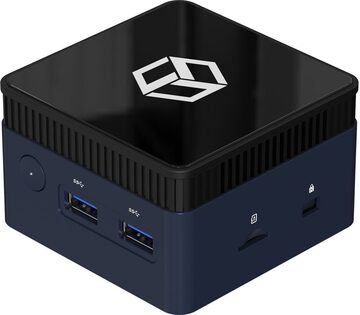
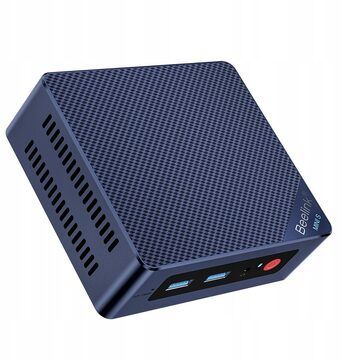
Pokój nauczycielski 16: minikomputer Beelink S12 Pro z 2 × HDMI, panele LYSEKIL nad blatem, ekrany MITTZON przy szafach i między biurkami
Beelink Mini S12 Pro (N100, 16 GB, 500 GB, Windows 11 Pro, 2 × HDMI) obsługuje ekran dotykowy i monitor na korytarzu;
zamiennik ASUS NUC 14 Essential (HDMI + DisplayPort). 2 panele LYSEKIL 119,6 × 55 cm między blatem a szafkami wiszącymi
(szafki od 145 cm). Ekran akustyczny przeniesiony z boku biurka 2 między szafy skrytkowe a biurko 1. Razem 37 831,64 zł.

Claude-Session: https://claude.ai/code/session_01FwNcib9nH5pwcS8mELcYCv

diff --git a/pokoj16-plan.js b/pokoj16-plan.js
@@ -33,7 +33,7 @@ const C = [
   { k: "szafa", z: "storage", name: "JAN NOWAK KAROL Eco Design, szafa skrytkowa zamykana na klucz, 18 skrytek, biały korpus / fronty dąb sonoma", dims: "90 × 40 × 185 cm, 18 skrytek (3 × 6) z zamkiem ryglowanym, klucz Master Key do wszystkich skrytek, otwory wentylacyjne, miejsce na wizytownik, 52 kg", sku: "1867 (EAN 5907367500462)", price: 1299, qty: 3, shop: "Kupmeble.pl", url: "https://kupmeble.pl/produkt/szafa-skrytkowa-zamykana-na-klucz-eco-design-karol-90x40x185-cm-bialy-dab-sonoma", avail: "na magazynie, wysyłka 48 h", status: ["ok", "Na magazynie, gwarancja 10 lat"], note: "Razem 54 skrytki" },
   { k: "scianka", z: "storage", sw: "acoustic", name: "IKEA MITTZON rama z kółkami, ekran akustyczny i tablica suchościeralna, Gunnared beżowy/biały", dims: "85 × 205 cm, podstawa 50 cm; na dole ekran akustyczny 5 cm, na górze dwustronna tablica do pisania i przypinania; pokrycie zdejmowane do prania", sku: "s09536177", price: 999, qty: 2, shop: IKEA, url: ip("mittzon-rama-z-kolk-ekr-akust-tabl-gunnared-bezowy-bialy-s09536177"), avail: "28.11: w sprzedaży, na stanie", status: ["ok", "1 szt. między stołem do druku a lodówką, 1 szt. bez stałego miejsca (do przestawiania)"], alt: [{ name: "MITTZON rama z kółkami i ekranem akustycznym, bez tablicy (s39514683)", price: 699, url: ip("mittzon-rama-z-kolkami-ekran-akust-gunnared-bezowy-bialy-s39514683") }] },
   { k: "biurko", z: "work", name: "IKEA BOLLPOJKE biurko, sosna / biały, 90 × 55 cm", dims: "90 × 55 × 75 cm, blat z litej sosny, biała rama ze skrzyżowanymi nogami, otwarta półka pod blatem, otwór na kable; przy każdym biurku podwójne gniazdo 230 V na ścianie", sku: "005.913.66", price: 449, qty: 2, shop: IKEA, url: ip("bollpojke-biurko-sosna-bialy-00591366"), avail: "28.11: w sprzedaży, na stanie", status: ["ok", "Pod tablicą magnetyczną, 10 cm odstępu na ekran między biurkami"] },
-  { k: "przegroda", z: "work", sw: "acoustic", name: "IKEA MITTZON ekran akustyczny na biurko, Gunnared beżowy, 70 × 72 cm", dims: "70 × 72 × 8 cm, zaciski w zestawie; 1 szt. między biurkami, 1 szt. z boku biurka 2 od strony Xeroxa (ekran wystaje 15 cm przed blat)", sku: "105.282.23", price: 300, qty: 2, shop: IKEA, url: ip("mittzon-ekran-akustyczny-na-biurko-gunnared-bezowy-10528223"), avail: "28.11: w sprzedaży, na stanie", status: ["warn", "Ekran jest do biurek MITTZON: sprawdzić, czy zaciski pasują do blatu BOLLPOJKE"] },
+  { k: "przegroda", z: "work", sw: "acoustic", name: "IKEA MITTZON ekran akustyczny na biurko, Gunnared beżowy, 70 × 72 cm", dims: "70 × 72 × 8 cm, zaciski w zestawie; 1 szt. między szafami skrytkowymi a biurkiem 1, 1 szt. między biurkami (ekran wystaje 15 cm przed blat)", sku: "105.282.23", price: 300, qty: 2, shop: IKEA, url: ip("mittzon-ekran-akustyczny-na-biurko-gunnared-bezowy-10528223"), avail: "28.11: w sprzedaży, na stanie", status: ["warn", "Ekran jest do biurek MITTZON: sprawdzić, czy zaciski pasują do blatu BOLLPOJKE"] },
   { k: "lampa", z: "work", name: "IKEA TERTIAL lampa biurkowa, biały", dims: "ramię ok. 56 cm, klosz i ramię regulowane, zacisk na blat do 6 cm; żarówka E27 sprzedawana osobno (np. SOLHETTA LED 806 lm, 16,99 zł za 2 szt.)", sku: "703.554.55", price: 49.99, qty: 2, shop: IKEA, url: ip("tertial-lampa-biurkowa-bialy-70355455"), avail: "28.11: w sprzedaży, na stanie", status: ["ok", "Po jednej na biurko, kupić też żarówki E27"] },
   { k: "podstawka", z: "work", name: "IKEA STENERIK podstawka pod laptopa", dims: "26 × 24 cm, wys. 4–14 cm; pod laptopem miejsce na klawiaturę, mysz i notatki", sku: "305.640.12", price: 79.99, qty: 2, shop: IKEA, url: ip("stenerik-podstawka-pod-laptopa-30564012"), avail: "28.11: w sprzedaży, na stanie", status: ["ok", "Pod laptopy KPO na biurkach"] },
   { k: "krz_biuro", z: "work", name: "IKEA LÄKTARE krzesło konferencyjne, średnioszary / biały", dims: "55 × 50 × 84 cm, podłokietniki, siedzisko z okleiną brzozową, pokrycie Gunnared do prania, sztaplowane (do 5 szt.), EN 16139", sku: "s49503250", price: 299, qty: 2, shop: IKEA, url: ip("laektare-krzeslo-konferencyjne-srednioszary-bialy-s49503250"), status: ["ok", "Przy biurkach"] },
@@ -54,6 +54,7 @@ const C = [
   { k: "zlew", z: "kitchen", name: "IKEA LÅNGUDDEN zlew wpuszczany, 1 komora, stal nierdzewna", dims: "46 × 46 cm", sku: "s59157391", price: 289, qty: 1, shop: IKEA, url: ip("langudden-zlew-wpuszczany-1-komorowy-stal-nierdz-s59157391"), status: ["ok", "W sprzedaży, na stanie"], noDraw: true, alt: [{ name: "VRESJÖN 54 × 44 cm, stal", price: 1079, url: ip("vresjoen-zlew-wpuszczany-1-komora-stal-nierdz-s99425721") }] },
   { k: "bateria", z: "kitchen", name: "IKEA SALLSJÖN bateria kuchenna z uchwytem z boku, stalowy", dims: "jednouchwytowa", sku: "706.009.04", price: 349, qty: 1, shop: IKEA, url: ip("sallsjoen-bateria-kuchenna-z-uchwytem-z-boku-stalowy-70600904"), status: ["ok", "W sprzedaży, na stanie"], noDraw: true, alt: [{ name: "LAGAN, chrom (najtańsza)", price: 119, url: ip("lagan-bateria-kuchenna-chrom-10085027") }] },
   { k: "blat", z: "kitchen", name: "IKEA EKBACKEN blat, efekt jasnego dębu / laminat", dims: "246 × 63,5 × 2,8 cm, docinany na 240", sku: "506.338.11", price: 299, qty: 1, shop: IKEA, url: ip("ekbacken-blat-efekt-jasnego-debu-laminat-50633811"), status: ["ok", "W sprzedaży, na stanie"] },
+  { k: "panel_sc", z: "kitchen", name: "IKEA LYSEKIL panel ścienny dwustronny, matowy biały / jasnoszary imitacja betonu (między blatem a szafkami wiszącymi)", dims: "119,6 × 55 × 0,2 cm, 2 szt. na 240 cm; przyklejany do ściany (klej montażowy osobno), można przyciąć; szafki wiszące od 145 cm", sku: "106.229.23", price: 199, qty: 2, shop: IKEA, url: ip("lysekil-panel-scienny-2str-jasnoszary-imitacja-betonu-matowy-bialy-10622923"), avail: "28.11: w sprzedaży, na stanie", status: ["ok", "Strona matowa biała do frontów Havstorp; druga strona: beton"], noDraw: true },
   { k: "an_wiszaca", z: "kitchen", name: "IKEA METOD szafka ścienna z półkami, 2 drzwi, biały/Havstorp beżowy", dims: "60 × 100 cm", sku: "s89461328", price: 405, qty: 4, shop: IKEA, url: ip("metod-szafka-scienna-z-polkami-2-drzwi-bialy-havstorp-bezowy-s89461328"), status: ["ok", "W sprzedaży, na stanie"] },
   { k: "cokol", z: "kitchen", name: "IKEA HAVSTORP cokół, beżowy", dims: "220 × 8 cm, 2 szt. na 240 cm", sku: "404.752.56", price: 95, qty: 2, shop: IKEA, url: ip("havstorp-cokol-bezowy-40475256"), status: ["ok", "W sprzedaży, na stanie"], noDraw: true },
   { k: "panel_m", z: "kitchen", name: "IKEA HAVSTORP panel maskujący, beżowy (bok szafki z szufladami)", dims: "39 × 86 cm", sku: "504.752.51", price: 110, qty: 1, shop: IKEA, url: ip("havstorp-panel-maskujacy-bezowy-50475251"), status: ["ok", "W sprzedaży, na stanie"], noDraw: true },
@@ -67,7 +68,7 @@ const C = [
   { k: "krz_zapas", z: "dining", name: "IKEA LÄKTARE krzesło konferencyjne, średnioszary / biały (dodatkowe, w narożniku)", dims: "4 szt. w jednym rzędzie: 2 stosy po 2 krzesła w narożniku przy oknie, na gości lub do rozsuniętych stołów", sku: "s49503250", price: 299, qty: 4, shop: IKEA, url: ip("laektare-krzeslo-konferencyjne-srednioszary-bialy-s49503250"), status: ["ok", "W sprzedaży, na stanie"] },
   { k: "sofa3", z: "lounge", name: "IKEA EKTORP sofa 3-osobowa, Hakebo ciemnoszary", dims: "218 × 88 × 88 cm, pokrycie zdejmowane, pranie w pralce", sku: "s39508998", price: 1999, qty: 2, shop: IKEA, url: ip("ektorp-sofa-3-osobowa-hakebo-ciemnoszary-s39508998"), status: ["ok", "W sprzedaży, na stanie"] },
   { k: "cmd_monitor", z: "cmd", sw: "tech", name: "Monitor dotykowy iiyama ProLite T2755MSC-B1, 27″ Full HD", dims: "36 × 61 cm, w pionie na stałym płaskim uchwycie ściennym (VESA 100 × 100, ok. 6 cm od ściany razem z obudową), 1920 × 1080, dotyk pojemnościowy 10-punktowy, 5,8 kg, VESA 100 × 100", price: 1819.94, qty: 1, shop: "Morele.net", url: "https://www.morele.net/monitor-iiyama-prolite-t2755msc-b1-13179166/", avail: "na stanie, sprzedaje Morele.net", status: ["ok", "Na stanie"], alt: [{ name: "iiyama ProLite T2755QSC-B1, 27″ QHD dotykowy", price: 2274.95, url: "https://www.morele.net/monitor-iiyama-prolite-t2755qsc-b1-13239211/" }] },
-  { k: "cmd_pc", z: "cmd", name: "Minikomputer Qoobe Mini PC N100, 12 GB RAM, 512 GB SSD, Windows 11 Pro (QE-IN100)", dims: "mały i cichy, wystarczy do przeglądarki; na ścianie obok monitora (po prawej) w uchwycie Maclean MC-115 B", price: 1799, qty: 1, shop: "Morele.net", url: "https://www.morele.net/komputer-qoobe-mini-pc-n100-12gb-512gb-w11-pro-qe-in100-12gb-512gb-600575926/", avail: "na stanie, sprzedaje Morele.net", status: ["warn", "Na stanie; potwierdzić Wi-Fi (karta produktu go nie podaje)"], alt: [{ name: "Beelink Mini S12 Pro, N100, 16 GB, 500 GB, Windows 11 Pro, Wi-Fi 6 (sprzedawca TeKaPi)", price: 2789, url: "https://www.morele.net/beelink-mini-s12-pro-mini-pc-lake-n100-16-gb-ddr4-ram-500-gb-15183822/" }] },
+  { k: "cmd_pc", z: "cmd", name: "Minikomputer Beelink Mini S12 Pro, Intel N100, 16 GB RAM, 500 GB SSD, Windows 11 Pro", dims: "2 × HDMI: ekran dotykowy (HDMI + USB do dotyku) i monitor na korytarzu; Wi-Fi 6, LAN 1 Gb/s; na ścianie obok ekranu (po prawej) w obejmie Maclean MC-115 B", price: 2799, qty: 1, shop: "Morele.net", url: "https://www.morele.net/komputer-beelink-beelink-mini-s12-pro-mini-pc-lake-n100-16-gb-ddr4-ram-500-gb-15183822/", avail: "28.11: na stanie, sprzedaje Morele.net", status: ["ok", "Obsługuje dwa monitory"], alt: [{ name: "ASUS NUC 14 Essential, Intel N150, 16 GB, 512 GB SSD, Windows 11 Pro, HDMI + DisplayPort, Wi-Fi 6E", price: 3299, url: "https://www.morele.net/komputer-asus-nuc-14-essential-intel-celeron-n150-16-gb-512-gb-ssd-windows-11-pro-8426666/" }] },
   { k: "cmd_mount", z: "cmd", sw: "tech", name: "Stały uchwyt ścienny do monitora Neomounts NM-W25BLACK, VESA 75/100", dims: "10–32″, do 25 kg (monitor 5,8 kg), 1,2 cm od ściany, bez ramienia i przegubów: ekran nie ugina się przy dotyku; VESA 100 × 100 jest kwadratowe, więc monitor wisi w pionie po obróceniu", price: 66.28, qty: 1, shop: "Morele.net", url: "https://www.morele.net/neomounts-uchwyt-scienny-na-monitor-10-32-nm-w25black-4764189/", avail: "28.11: na stanie", status: ["warn", "Przed montażem sprawdzić, czy złącza monitora wychodzą w dół; przy 1,2 cm od ściany wtyk skierowany do tyłu się nie zmieści (wtedy wtyki kątowe)"], alt: [{ name: "Neomounts FPMA-W110BLACK, stały, 1,8 cm od ściany, VESA do 200 × 200", price: 125.99, url: "https://www.morele.net/neomounts-uchwyt-scienny-fpma-w110black-10-40-4764200/" }], noDraw: true },
   { k: "cmd_vesa", z: "cmd", sw: "tech", name: "Uchwyt VESA na minikomputer Maclean MC-115 B", dims: "VESA 50/75/100, obejma 17–70 mm, do 5 kg; przykręcony bezpośrednio do ściany obok monitora (producent przewiduje montaż na ścianie)", price: 30.61, qty: 1, shop: "Morele.net", url: "https://www.morele.net/uchwyt-do-komputera-maclean-uchwyt-do-mini-komputerow-maclean-zakres-17-70mm-kompatybilny-z-vesa-max-obciazenie-5kg-czarny-mc-115-b-15476917/", avail: "na stanie", status: ["ok", "Na stanie"], noDraw: true },
   { k: "klucze", z: "storage", name: "Tablica na klucze do sal lekcyjnych, przy szafach skrytkowych", dims: "ok. 70 × 50 cm, korek z haczykami na ok. 50–60 kluczy, z opisem sal", qty: 1, status: ["mute", "Poza zakupem"], outside: true },
@@ -93,7 +94,7 @@ const PAL = {
   szafa: { col: "#f1f0eb", front: "#c79e6c" }, scianka: { col: "#cdc3b0" },
   biurko: { col: PINE, frame: WHITE_FRAME }, lampa: { col: "#f4f4f2" }, podstawka: { col: "#f2f1ec" }, stol_pracy: { col: OAK, frame: "#2a2a2a" }, stol_jad: { col: OAK, frame: "#2a2a2a" },
   stol_wysoki: { col: ASH, frame: WHITE_FRAME }, krz_biuro: { col: "#8f9294" }, krz_pracy: { col: "#8f9294" }, krz_jad: { col: "#8f9294" },
-  regal_druk: { col: "#f3f2ee" }, niszczarka: { col: "#3b3f42" }, an_szuflady: { col: HAV, body: WHITE_FRAME }, an_polki: { col: HAV, body: WHITE_FRAME }, an_zlew: { col: HAV, body: WHITE_FRAME },
+  regal_druk: { col: "#f3f2ee" }, panel_sc: { col: "#f1f0ec" }, niszczarka: { col: "#3b3f42" }, an_szuflady: { col: HAV, body: WHITE_FRAME }, an_polki: { col: HAV, body: WHITE_FRAME }, an_zlew: { col: HAV, body: WHITE_FRAME },
   zmywarka: { col: "#f3f3f1" }, an_wiszaca: { col: HAV, body: WHITE_FRAME }, blat: { col: "#cfae80" }, lodowka: { col: "#8f9396" }, mikrofala: { col: "#f4f4f2" }, czajnik: { col: "#b3b8ba" },
   sofa3: { col: "#5d6061" }, sofa2: { col: "#8e9192" }, fotel: { col: "#dccfb7", frame: "#b98f5e" }, stolik: { col: "#c29a68" }, pojemniki: { col: "#f4f4f2" },
   druk_duza: { col: "#e3e4e2" }, finiszer: { col: "#e3e4e2" }, druk_mala: { col: "#dfe1e0" }, akcesoria: { col: "#4e5a5f" },
@@ -129,8 +130,9 @@ add("an_polki", { x: 720, y: 0, w: 60, d: 60, h: 86, kind: "box", label: "Półk
 add("an_polki", { x: 780, y: 0, w: 60, d: 60, h: 86, kind: "box", label: "Półki" });
 add("an_zlew", { x: 840, y: 0, w: 60, d: 60, h: 86, kind: "box", label: "Zlew" });
 add("blat", { x: 660, y: 0, w: 240, d: 63, h: 4, z: 86, kind: "box", hidePlan: true });
+add("panel_sc", { x: 660, y: 0, w: 240, d: 0.6, h: 55, z: 90, kind: "box", hidePlan: true });
 add("mikrofala", { x: 728, y: 4, w: 45, d: 34, h: 26, z: 90, kind: "box", ontop: true });
-[660, 720, 780, 840].forEach((x) => add("an_wiszaca", { x, y: 0, w: 60, d: 37, h: 100, z: 150, kind: "box", above: true }));
+[660, 720, 780, 840].forEach((x) => add("an_wiszaca", { x, y: 0, w: 60, d: 37, h: 100, z: 145, kind: "box", above: true }));
 add("stol_pracy", { x: 240, y: 252, w: 140, d: 68, h: 75, kind: "table", label: "Stół roboczy · 8" });
 add("stol_pracy", { x: 380, y: 252, w: 140, d: 68, h: 75, kind: "table" });
 add("stol_pracy", { x: 240, y: 320, w: 140, d: 68, h: 75, kind: "table" });
@@ -144,7 +146,7 @@ add("stol_jad", { x: 756, y: 315, w: 68, d: 140, h: 75, kind: "table" });
 [790, 845].forEach((x) => add("krz_zapas", { x, y: 545, w: 55, d: 50, h: 93, n: 2, face: "N", kind: "stack", label: "2" }));
 add("sofa3", { x: 172, y: 497, w: 218, d: 88, h: 88, face: "N", kind: "sofa", label: "Sofa 3", seats: 3 });
 add("sofa3", { x: 400, y: 497, w: 218, d: 88, h: 88, face: "N", kind: "sofa", label: "Sofa 3", seats: 3 });
-[376, 476].forEach((y) => add("przegroda", { x: 0, y, w: 70, d: 8, h: 72, z: 75, kind: "divider" }));
+[276, 376].forEach((y) => add("przegroda", { x: 0, y, w: 70, d: 8, h: 72, z: 75, kind: "divider" }));
 add("klucze", { x: 55, y: 0, w: 70, d: 3, h: 50, z: 130, kind: "board", above: true });
 add("tablica_biurka", { x: 0, y: 305, w: 3, d: 200, h: 100, z: 110, kind: "board", above: true });
 add("tablica_druk", { x: 350, y: 0, w: 200, d: 3, h: 100, z: 165, kind: "board", above: true });
@@ -214,7 +216,7 @@ const CHECKS = [
   { a: [824, 390], b: [900, 390], need: 75, name: "Krawędź stołu jadalni ↔ prawa ściana", why: "Odsunięcie krzeseł, bez przejścia za nimi" },
   { a: [756, 455], b: [756, 600], need: 90, name: "Szczyt stołu jadalni ↔ ściana z oknami", why: "Dojście do stosów krzeseł w narożniku" },
   { a: [480, 448], b: [480, 497], need: 75, name: "Krzesła stołu roboczego (odsunięte) ↔ front sof", why: "Miejsce na nogi siedzących na sofie", soft: 45 },
-  { a: [24, 484], b: [24, 527], need: 30, name: "Ekran przy biurku 2 ↔ Xerox", why: "Odstęp od drukarki: dostęp z boku, przewody, wentylacja" },
+  { a: [24, 475], b: [24, 527], need: 30, name: "Biurko 2 ↔ Xerox", why: "Odstęp od drukarki: dostęp z boku, przewody, wentylacja" },
   { a: [67, 560], b: [172, 560], need: 100, name: "Front Xeroxa B7130 ↔ sofa", why: "Obsługa drukarki przy biurkach, wymiana tonera" },
   { a: [40, 215], b: [248, 215], need: 120, name: "Front szaf skrytkowych ↔ krzesło stołu roboczego", why: "Otwarte drzwiczki skrytek i przejście do biurek" },
   { a: [40, 140], b: [125, 140], need: 70, name: "Strefa przed szafami skrytkowymi", why: "Otwieranie drzwiczek skrytek", fixedOk: true },
@@ -601,8 +603,8 @@ function drawElev(key) {
   txt(elev, W.len, -22, W.right, "wtxt", { "text-anchor": "end" });
   txt(elev, W.len / 2, -22, W.title, "lbl", { "text-anchor": "middle" });
   const notes = {
-    N: "Przy szafach skrytkowych tablica na klucze do sal (ok. 70 × 50 cm). Drzwi otwierają się na zewnątrz, w prawo. Nad bizhubem i stołem do kompletowania tablica magnetyczna ok. 200 × 100 cm (dół 165 cm). Tuż przy drzwiach ekran dotykowy 27″ zawieszony w pionie na stałym płaskim uchwycie 1,2 cm od ściany (dół 100 cm, góra 161 cm), stabilny przy dotyku, minikomputer w uchwycie na ścianie obok ekranu (po prawej). Obok bizhub C450i z finiszerem FS-539SD; po prawej 34 cm zapasu na tacę boczną, w tym miejscu niszczarka Fellowes 99Ci (64 cm, poniżej tacy). Stół do kompletowania TROTTEN 120 × 70 z elektryczną regulacją (ok. 95 cm), pod nim regał EKET z 4 otwartymi przegrodami na nóżkach (80 cm) na papier, tonery i laptopy. Lodówka 60 cm oddziela strefę druku od aneksu 240 cm. Na blacie mikrofalówka; szafki wiszące 4 × 60, dół 150 cm, góra 250 cm.",
-    W: "Nad biurkami tablica magnetyczna ok. 200 × 100 cm z kartkami (dół 110 cm). Dwa biurka BOLLPOJKE 90 × 55 cm (sosna, biała rama), na każdym lampa TERTIAL i podstawka STENERIK pod laptop; przy każdym biurku podwójne gniazdo 230 V na ścianie (95 cm). Ekrany akustyczne MITTZON 70 × 72 cm na zaciskach: jeden między biurkami, drugi z boku biurka 2 od strony Xeroxa. Od ekranu do Xeroxa 43 cm odstępu. Ścianka MITTZON na kółkach (dół ekran akustyczny, góra tablica) jest wsunięta między stół do kompletowania a lodówkę i oddziela strefę druku od aneksu. Obok biurek Xerox B7130 (77 cm, bez podstawy KSW: na podłodze albo na własnej podstawie szkoły, do ustalenia). Trzy szafy skrytkowe KAROL 90 × 40 × 185 cm, po 18 skrytek (3 × 6), razem 54.",
+    N: "Przy szafach skrytkowych tablica na klucze do sal (ok. 70 × 50 cm). Drzwi otwierają się na zewnątrz, w prawo. Nad bizhubem i stołem do kompletowania tablica magnetyczna ok. 200 × 100 cm (dół 165 cm). Tuż przy drzwiach ekran dotykowy 27″ zawieszony w pionie na stałym płaskim uchwycie 1,2 cm od ściany (dół 100 cm, góra 161 cm), stabilny przy dotyku, minikomputer w uchwycie na ścianie obok ekranu (po prawej). Obok bizhub C450i z finiszerem FS-539SD; po prawej 34 cm zapasu na tacę boczną, w tym miejscu niszczarka Fellowes 99Ci (64 cm, poniżej tacy). Stół do kompletowania TROTTEN 120 × 70 z elektryczną regulacją (ok. 95 cm), pod nim regał EKET z 4 otwartymi przegrodami na nóżkach (80 cm) na papier, tonery i laptopy. Lodówka 60 cm oddziela strefę druku od aneksu 240 cm. Na blacie mikrofalówka; między blatem a szafkami wiszącymi panel LYSEKIL (matowy biały, 55 cm); szafki wiszące 4 × 60, dół 145 cm, góra 245 cm.",
+    W: "Nad biurkami tablica magnetyczna ok. 200 × 100 cm z kartkami (dół 110 cm). Dwa biurka BOLLPOJKE 90 × 55 cm (sosna, biała rama), na każdym lampa TERTIAL i podstawka STENERIK pod laptop; przy każdym biurku podwójne gniazdo 230 V na ścianie (95 cm). Ekrany akustyczne MITTZON 70 × 72 cm na zaciskach: jeden między szafami skrytkowymi a biurkiem 1, drugi między biurkami. Od biurka 2 do Xeroxa 52 cm odstępu. Ścianka MITTZON na kółkach (dół ekran akustyczny, góra tablica) jest wsunięta między stół do kompletowania a lodówkę i oddziela strefę druku od aneksu. Obok biurek Xerox B7130 (77 cm, bez podstawy KSW: na podłodze albo na własnej podstawie szkoły, do ustalenia). Trzy szafy skrytkowe KAROL 90 × 40 × 185 cm, po 18 skrytek (3 × 6), razem 54.",
     S: "Okna we wnękach: parapet na 90 cm, głębokość wnęki ok. 40 cm, na parapetach doniczki; na filarach między oknami małe tablice ogłoszeń (dół 145 cm), a nad nimi wysoko wiszące doniczki; w narożniku przy krzesłach tablica 80 × 60 cm. Sofy EKTORP (88 cm) poniżej parapetu, przed grzejnikami min. 15 cm odstępu.",
     E: "Ściana za jadalnią: białe pole pod obraz z rzutnika (ok. 260 × 146 cm, od 190 do 336 cm) na osi stołu, po obu bokach wąskie pasy roślin z długimi zwisającymi pędami. W narożniku przy oknie 4 dodatkowe krzesła LÄKTARE (2 stosy po 2), nad nimi na filarze tablica ogłoszeń. Ściany w ciepłym beżu, sala ok. 450 cm wysokości.",
   };

diff --git a/index.html b/index.html
@@ -20,8 +20,8 @@
     <title>Sprzęt i wyposażenie sal | ZSZ nr 5</title>
     <link rel="canonical" href="https://sprzet.szkolamistrzow.info/" />
     <link rel="icon" href="assets/logo-zsz5.png" />
-    <link rel="stylesheet" href="styles.css?v=202611281410" />
-    <link rel="stylesheet" href="pokoj16-plan.css?v=202611281410" />
+    <link rel="stylesheet" href="styles.css?v=202611281417" />
+    <link rel="stylesheet" href="pokoj16-plan.css?v=202611281417" />
   </head>
   <body>
     <a class="skip-link" href="#roomDetail">Przejdź do karty sali</a>
@@ -314,11 +314,11 @@
             <div class="check-box">
               <h3>Sprawdzenie dostępności, 24.11.2026</h3>
               <ul>
-                <li>IKEA, 28.11.2026: regał EKET z nóżkami, druga szafka METOD z półkami (zamiast zmywarki), ścianka MITTZON z tablicą, ekrany MITTZON na biurka, biurka BOLLPOJKE, lampy TERTIAL i podstawki STENERIK są w sprzedaży i na stanie w sklepie internetowym.</li>
+                <li>IKEA, 28.11.2026: panele LYSEKIL nad blat, regał EKET z nóżkami, druga szafka METOD z półkami (zamiast zmywarki), ścianka MITTZON z tablicą, ekrany MITTZON na biurka, biurka BOLLPOJKE, lampy TERTIAL i podstawki STENERIK są w sprzedaży i na stanie w sklepie internetowym.</li>
                 <li>IKEA: wszystkie pozycje z listy (28 produktów razem z zamiennikami) są w aktualnej ofercie, żadna nie jest wycofana ani oznaczona jako wyprzedana. Sklep internetowy pokazuje wysoki stan magazynowy każdej z nich.</li>
                 <li>IKEA Wrocław Bielany: stanów konkretnego sklepu nie dało się odczytać automatycznie. Przed zamówieniem otwórz link produktu, wybierz sklep Wrocław i sprawdź całe ilości (np. 22 × LÄKTARE) albo zamów przez IKEA dla Firm z dostawą.</li>
                 <li>Szafy skrytkowe KAROL (Kupmeble): na magazynie, wysyłka w 48 h, gwarancja 10 lat.</li>
-                <li>Centrum dowodzenia i niszczarka (Morele): monitor, minikomputer, uchwyty i niszczarka Fellowes 99Ci na stanie (niszczarka 28.11.2026).</li>
+                <li>Centrum dowodzenia i niszczarka (Morele), 28.11.2026: monitor, minikomputer Beelink, uchwyty i niszczarka Fellowes 99Ci na stanie.</li>
                 <li>Tablice ALLboards (Castorama, sprzedawca zewnętrzny, tylko online): strona sklepu nie pokazuje jednoznacznie stanu, więc przed zamówieniem dodaj je do koszyka i sprawdź termin dostawy. Ceny z 24.11.2026.</li>
                 
                     </ul>
@@ -378,12 +378,12 @@
                 <h3>Decyzje</h3>
                 <ol>
                   <li>Ścianki MITTZON na kółkach z tablicą (podstawa 50 cm, na dole ekran akustyczny, na górze dwustronna tablica suchościeralna): jedna wsunięta między stół do kompletowania a lodówkę (nóżki wchodzą pod stół i lodówkę), oddziela strefę druku od aneksu; druga zostaje w zakupie, ale bez stałego miejsca (do przestawiania w razie potrzeby).</li>
-                  <li>Ekrany akustyczne MITTZON na biurka (70 × 72 cm) są przeznaczone do biurek MITTZON: przed zamówieniem sprawdzić w sklepie, czy zaciski obejmą blat BOLLPOJKE. Ekran z boku biurka wystaje ok. 15 cm przed blat.</li>
+                  <li>Ekrany akustyczne MITTZON na biurka (70 × 72 cm) są przeznaczone do biurek MITTZON: przed zamówieniem sprawdzić w sklepie, czy zaciski obejmą blat BOLLPOJKE. Ekrany stoją z boku biurek (jeden od strony szaf skrytkowych, drugi między biurkami) i wystają ok. 15 cm przed blat.</li>
                   <li>Lampy TERTIAL są bez żarówek: dokupić 2 żarówki LED E27 (np. SOLHETTA 806 lm, 16,99 zł za 2 szt.).</li>
                   <li>Stoły: 8 × MITTZON 140 × 68 (dąb, czarne nogi, jednolity blat) w dwóch blokach 280 × 136; przy stole roboczym ciasno przed sofami (ok. 49 cm). Alternatywa: blok z 3 stołów 140 × 68 w jednym rzędzie (420 × 68) zwalnia miejsce, ale jest wąski.</li>
                   <li>Lodówka: czy szkoła ma lodówkę szer. 60 cm, czy trzeba ją kupić osobno; zawiasy po stronie aneksu.</li>
                   <li>Strona sprzętu planuje 4 laptopy KPO dla sali 16: rzut zakłada 2 na biurkach, a pozostałe leżą na otwartych półkach regału EKET pod stołem do kompletowania i tam się ładują (na własnych zasilaczach, z gniazda pod blatem). Regał nie ma drzwi ani zamka.</li>
-                  <li>Minikomputer Qoobe N100: przed zamówieniem potwierdzić w Morele, że ma Wi-Fi. Jeśli nie ma, wystarczy kabel do gniazda RJ45 obok ekranu albo adapter Wi-Fi na USB.</li>
+                  <li>Minikomputer Beelink Mini S12 Pro ma 2 wyjścia HDMI: jedno do ekranu dotykowego (z kablem USB do obsługi dotyku), drugie do monitora na korytarzu. Ma Wi-Fi 6, ale lepiej podłączyć go kablem do gniazda RJ45 obok ekranu.</li>
                   <li>Duża drukarka: rzut przyjmuje bizhub C450i z kasetą PC-x16 i finiszerem FS-539SD (razem 116 × 69 cm, z tacami i tacą boczną ok. 160 cm szerokości). Potwierdzić z Copytec konfigurację i miejsce na kable (4 cm od ściany).</li>
                   <li>Xerox B7130 bez podstawy KSW: ustalić, czy stoi na podłodze, czy na własnej podstawie szkoły (wtedy skaner jest na ok. 112 cm).</li>
                   <li>Bateria: SALLSJÖN (349 zł) czy najtańsza LAGAN (119 zł).</li>
@@ -415,6 +415,6 @@
 
     <section class="print-sheet" id="printSheet" aria-hidden="true"></section>
 
-    <script type="module" src="app.js?v=202611281410"></script>
+    <script type="module" src="app.js?v=202611281417"></script>
   </body>
 </html>

diff --git a/pokoj16-data.js b/pokoj16-data.js
@@ -69,7 +69,7 @@ export const pokoj16 = {
       "cena_szt": 300,
       "sklep": "IKEA (Wrocław Bielany / ikea.com/pl)",
       "link": "https://www.ikea.com/pl/pl/p/mittzon-ekran-akustyczny-na-biurko-gunnared-bezowy-10528223/",
-      "uwagi": "1 szt. między biurkami, 1 szt. z boku biurka 2 (od strony Xeroxa); ekran jest do biurek MITTZON, przed zakupem sprawdzić zaciski na blacie BOLLPOJKE",
+      "uwagi": "1 szt. między szafami skrytkowymi a biurkiem 1, 1 szt. między biurkami; ekran jest do biurek MITTZON, przed zakupem sprawdzić zaciski na blacie BOLLPOJKE",
       "zdjecie": "assets/pokoj16/przegroda.jpg"
     },
     {
@@ -298,6 +298,18 @@ export const pokoj16 = {
       "zdjecie": "assets/pokoj16/blat.jpg"
     },
     {
+      "id": "panel_sc",
+      "grupa": "Aneks kuchenny (lodówka i zmywarka poza zakupem)",
+      "rodzaj": "Panel ścienny nad blatem",
+      "nazwa": "IKEA LYSEKIL panel ścienny dwustronny, matowy biały / jasnoszary imitacja betonu, 119,6 × 55 cm",
+      "ilosc": 2,
+      "cena_szt": 199,
+      "sklep": "IKEA (Wrocław Bielany / ikea.com/pl)",
+      "link": "https://www.ikea.com/pl/pl/p/lysekil-panel-scienny-2str-jasnoszary-imitacja-betonu-matowy-bialy-10622923/",
+      "uwagi": "2 szt. na 240 cm między blatem a szafkami wiszącymi (szafki od 145 cm); przyklejany do ściany, można przyciąć; klej montażowy dokupić osobno",
+      "zdjecie": "assets/pokoj16/panel_sc.jpg"
+    },
+    {
       "id": "an_wiszaca",
       "grupa": "Aneks kuchenny (lodówka i zmywarka poza zakupem)",
       "rodzaj": "Szafka kuchenna wisząca",
@@ -452,17 +464,17 @@ export const pokoj16 = {
       "id": "cmd_pc",
       "grupa": "Centrum dowodzenia (ekran dotykowy na ścianie przy drzwiach, obok bizhuba)",
       "rodzaj": "Minikomputer",
-      "nazwa": "Minikomputer Qoobe Mini PC N100, 12 GB RAM, 512 GB SSD, Windows 11 Pro (QE-IN100)",
+      "nazwa": "Minikomputer Beelink Mini S12 Pro, Intel N100, 16 GB RAM, 500 GB SSD, Windows 11 Pro, 2 × HDMI, Wi-Fi 6",
       "ilosc": 1,
-      "cena_szt": 1799,
+      "cena_szt": 2799,
       "sklep": "Morele.net",
-      "link": "https://www.morele.net/komputer-qoobe-mini-pc-n100-12gb-512gb-w11-pro-qe-in100-12gb-512gb-600575926/",
-      "uwagi": "Na stanie; potwierdzić Wi-Fi (karta produktu go nie podaje)",
+      "link": "https://www.morele.net/komputer-beelink-beelink-mini-s12-pro-mini-pc-lake-n100-16-gb-ddr4-ram-500-gb-15183822/",
+      "uwagi": "2 wyjścia HDMI: ekran dotykowy (HDMI + USB do dotyku) i monitor na korytarzu; sprzedaje Morele.net, na stanie",
       "zamienniki": [
         {
-          "nazwa": "Beelink Mini S12 Pro, N100, 16 GB, 500 GB, Windows 11 Pro, Wi-Fi 6 (sprzedawca TeKaPi)",
-          "cena": 2789,
-          "link": "https://www.morele.net/beelink-mini-s12-pro-mini-pc-lake-n100-16-gb-ddr4-ram-500-gb-15183822/"
+          "nazwa": "ASUS NUC 14 Essential, Intel N150, 16 GB, 512 GB SSD, Windows 11 Pro, HDMI + DisplayPort, Wi-Fi 6E",
+          "cena": 3299,
+          "link": "https://www.morele.net/komputer-asus-nuc-14-essential-intel-celeron-n150-16-gb-512-gb-ssd-windows-11-pro-8426666/"
         }
       ],
       "zdjecie": "assets/pokoj16/cmd_pc.jpg"

diff --git a/tests/app.spec.js b/tests/app.spec.js
@@ -1627,7 +1627,7 @@ test("nis2-data: daty są poprawne i identyfikatory unikalne", async ({ page }) 
 test("pokój nauczycielski 16: każda pozycja listy zakupów ma zdjęcie poglądowe", async ({ page }) => {
   await page.goto("/#pokoj-nauczycielski-16");
   const photos = page.locator("#room16List .r16-photo img");
-  await expect(photos).toHaveCount(39);
+  await expect(photos).toHaveCount(40);
   await expect(page.locator("#room16List .r16-photo.is-empty")).toHaveCount(0);
   const broken = await photos.evaluateAll(async (images) => {
     await Promise.all(images.map((image) => { image.loading = "eager"; return image.decode().catch(() => {}); }));
@@ -1638,7 +1638,7 @@ test("pokój nauczycielski 16: każda pozycja listy zakupów ma zdjęcie pogląd
   // Plan sali jest częścią strony (bez ramki), zestawienie na planie też ma zdjęcia.
   await expect(page.locator("#room16View iframe")).toHaveCount(0);
   const planPhotos = page.locator("#pn16 #list-table .photo img");
-  await expect(planPhotos).toHaveCount(39);
+  await expect(planPhotos).toHaveCount(40);
   await expect(page.locator("#pn16 #plan g.item").first()).toBeAttached();
   const planBroken = await planPhotos.evaluateAll(async (images) => {
     await Promise.all(images.map((image) => { image.loading = "eager"; return image.decode().catch(() => {}); }));

diff --git a/app.js b/app.js
@@ -15,9 +15,9 @@ import {
   standardControlTasks,
   statusLabels,
   unresolvedItems,
-} from "./equipment-data.js?v=202611281410";
-import { zakupyListopad } from "./zakupy-data.js?v=202611281410";
-import { pokoj16 } from "./pokoj16-data.js?v=202611281410";
+} from "./equipment-data.js?v=202611281417";
+import { zakupyListopad } from "./zakupy-data.js?v=202611281417";
+import { pokoj16 } from "./pokoj16-data.js?v=202611281417";
 import {
   nis2Annex,
   nis2Deadlines,
@@ -30,7 +30,7 @@ import {
   nis2Sources,
   nis2Summary,
   nis2Updated,
-} from "./nis2-data.js?v=202611281410";
+} from "./nis2-data.js?v=202611281417";
 
 const els = {
   stats: document.querySelector("#stats"),
@@ -1034,7 +1034,7 @@ const r16Total = (items) => items.reduce((sum, item) => sum + r16Value(item), 0)
 
 // Zdjęcie poglądowe z oferty (pole zdjecie, uzupełniane skryptem tools/fetch-product-images.mjs); bez zdjęcia: link do oferty.
 // Znacznik wersji plików (zmienia go tools/bump-version.mjs), żeby po publikacji przeglądarka nie brała starych plików z pamięci podręcznej.
-const ASSET_VERSION = "202611281410";
+const ASSET_VERSION = "202611281417";
 const withVersion = (url) => `${url}?v=${ASSET_VERSION}`;
 
 const r16Photo = (item) => (item.zdjecie
